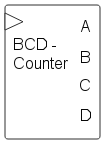
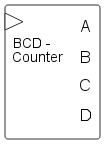
Updates

Changed region(s): [[0.1143, 0.25, 0.6571, 0.5]]

diff --git a/assets/shapes/index.js b/assets/shapes/index.js
@@ -1039,33 +1039,33 @@ var draw2d_circuit_counter_BCDCounter = draw2d.SetFigure.extend({
      this._super( $.extend({stroke:0, bgColor:null, width:95,height:134},attr), setter, getter);
      var port;
      // input_t
-     port = this.addPort(new DecoratedInputPort(), new draw2d.layout.locator.XYRelPortLocator(-1.347368421051406, 12.313432835820896));
+     port = this.addPort(new DecoratedInputPort(), new draw2d.layout.locator.XYRelPortLocator(-2.0701775801808253, 12.313432835820896));
      port.setConnectionDirection(3);
-     port.setBackgroundColor("#37B1DE");
+     port.setBackgroundColor("#1C9BAB");
      port.setName("input_t");
      port.setMaxFanOut(1);
      // out_a
-     port = this.createPort("output", new draw2d.layout.locator.XYRelPortLocator(102.8210526315802, 16.417910447761194));
+     port = this.createPort("output", new draw2d.layout.locator.XYRelPortLocator(99.6631578947381, 16.417910447761194));
      port.setConnectionDirection(1);
-     port.setBackgroundColor("#37B1DE");
+     port.setBackgroundColor("#1C9BAB");
      port.setName("out_a");
      port.setMaxFanOut(20);
      // out_b
-     port = this.createPort("output", new draw2d.layout.locator.XYRelPortLocator(101.76842105263283, 38.507462686567436));
+     port = this.createPort("output", new draw2d.layout.locator.XYRelPortLocator(100.71578947368548, 38.507462686567436));
      port.setConnectionDirection(1);
-     port.setBackgroundColor("#37B1DE");
+     port.setBackgroundColor("#1C9BAB");
      port.setName("out_b");
      port.setMaxFanOut(20);
      // out_c
-     port = this.createPort("output", new draw2d.layout.locator.XYRelPortLocator(101.76842105263283, 61.46268656716462));
+     port = this.createPort("output", new draw2d.layout.locator.XYRelPortLocator(100.71578947368548, 61.46268656716462));
      port.setConnectionDirection(1);
-     port.setBackgroundColor("#37B1DE");
+     port.setBackgroundColor("#1C9BAB");
      port.setName("out_c");
      port.setMaxFanOut(20);
      // out_d
      port = this.createPort("output", new draw2d.layout.locator.XYRelPortLocator(101.76842105263283, 83.0746268656721));
      port.setConnectionDirection(1);
-     port.setBackgroundColor("#37B1DE");
+     port.setBackgroundColor("#1C9BAB");
      port.setName("out_d");
      port.setMaxFanOut(20);
      this.persistPorts=false;
@@ -1095,12 +1095,12 @@ var draw2d_circuit_counter_BCDCounter = draw2d.SetFigure.extend({
         
         // Label
         shape = this.canvas.paper.text(0,0,'BCD -');
-        shape.attr({"x":8.033331298828216,"y":40,"text-anchor":"start","text":"BCD -","font-family":"\"Arial\"","font-size":16,"stroke":"none","fill":"#080808","stroke-scale":true,"font-weight":"normal","stroke-width":0,"opacity":1});
+        shape.attr({"x":8.033331298828216,"y":38,"text-anchor":"start","text":"BCD -","font-family":"\"Arial\"","font-size":14,"stroke":"none","fill":"#080808","stroke-scale":true,"font-weight":"normal","stroke-width":0,"opacity":1});
         shape.data("name","Label");
         
         // Label
         shape = this.canvas.paper.text(0,0,'Counter');
-        shape.attr({"x":8.033331298828216,"y":58.600000000000364,"text-anchor":"start","text":"Counter","font-family":"\"Arial\"","font-size":16,"stroke":"none","fill":"#080808","stroke-scale":true,"font-weight":"normal","stroke-width":0,"opacity":1});
+        shape.attr({"x":7.033331298828216,"y":52.600000000000364,"text-anchor":"start","text":"Counter","font-family":"\"Arial\"","font-size":14,"stroke":"none","fill":"#080808","stroke-scale":true,"font-weight":"normal","stroke-width":0,"opacity":1});
         shape.data("name","Label");
         
         // Rectangle

diff --git a/assets/shapes/draw2d_circuit_counter_BCDCounter.js b/assets/shapes/draw2d_circuit_counter_BCDCounter.js
@@ -14,33 +14,33 @@ var draw2d_circuit_counter_BCDCounter = draw2d.SetFigure.extend({
      this._super( $.extend({stroke:0, bgColor:null, width:95,height:134},attr), setter, getter);
      var port;
      // input_t
-     port = this.addPort(new DecoratedInputPort(), new draw2d.layout.locator.XYRelPortLocator(-1.347368421051406, 12.313432835820896));
+     port = this.addPort(new DecoratedInputPort(), new draw2d.layout.locator.XYRelPortLocator(-2.0701775801808253, 12.313432835820896));
      port.setConnectionDirection(3);
-     port.setBackgroundColor("#37B1DE");
+     port.setBackgroundColor("#1C9BAB");
      port.setName("input_t");
      port.setMaxFanOut(1);
      // out_a
-     port = this.createPort("output", new draw2d.layout.locator.XYRelPortLocator(102.8210526315802, 16.417910447761194));
+     port = this.createPort("output", new draw2d.layout.locator.XYRelPortLocator(99.6631578947381, 16.417910447761194));
      port.setConnectionDirection(1);
-     port.setBackgroundColor("#37B1DE");
+     port.setBackgroundColor("#1C9BAB");
      port.setName("out_a");
      port.setMaxFanOut(20);
      // out_b
-     port = this.createPort("output", new draw2d.layout.locator.XYRelPortLocator(101.76842105263283, 38.507462686567436));
+     port = this.createPort("output", new draw2d.layout.locator.XYRelPortLocator(100.71578947368548, 38.507462686567436));
      port.setConnectionDirection(1);
-     port.setBackgroundColor("#37B1DE");
+     port.setBackgroundColor("#1C9BAB");
      port.setName("out_b");
      port.setMaxFanOut(20);
      // out_c
-     port = this.createPort("output", new draw2d.layout.locator.XYRelPortLocator(101.76842105263283, 61.46268656716462));
+     port = this.createPort("output", new draw2d.layout.locator.XYRelPortLocator(100.71578947368548, 61.46268656716462));
      port.setConnectionDirection(1);
-     port.setBackgroundColor("#37B1DE");
+     port.setBackgroundColor("#1C9BAB");
      port.setName("out_c");
      port.setMaxFanOut(20);
      // out_d
      port = this.createPort("output", new draw2d.layout.locator.XYRelPortLocator(101.76842105263283, 83.0746268656721));
      port.setConnectionDirection(1);
-     port.setBackgroundColor("#37B1DE");
+     port.setBackgroundColor("#1C9BAB");
      port.setName("out_d");
      port.setMaxFanOut(20);
      this.persistPorts=false;
@@ -70,12 +70,12 @@ var draw2d_circuit_counter_BCDCounter = draw2d.SetFigure.extend({
         
         // Label
         shape = this.canvas.paper.text(0,0,'BCD -');
-        shape.attr({"x":8.033331298828216,"y":40,"text-anchor":"start","text":"BCD -","font-family":"\"Arial\"","font-size":16,"stroke":"none","fill":"#080808","stroke-scale":true,"font-weight":"normal","stroke-width":0,"opacity":1});
+        shape.attr({"x":8.033331298828216,"y":38,"text-anchor":"start","text":"BCD -","font-family":"\"Arial\"","font-size":14,"stroke":"none","fill":"#080808","stroke-scale":true,"font-weight":"normal","stroke-width":0,"opacity":1});
         shape.data("name","Label");
         
         // Label
         shape = this.canvas.paper.text(0,0,'Counter');
-        shape.attr({"x":8.033331298828216,"y":58.600000000000364,"text-anchor":"start","text":"Counter","font-family":"\"Arial\"","font-size":16,"stroke":"none","fill":"#080808","stroke-scale":true,"font-weight":"normal","stroke-width":0,"opacity":1});
+        shape.attr({"x":7.033331298828216,"y":52.600000000000364,"text-anchor":"start","text":"Counter","font-family":"\"Arial\"","font-size":14,"stroke":"none","fill":"#080808","stroke-scale":true,"font-weight":"normal","stroke-width":0,"opacity":1});
         shape.data("name","Label");
         
         // Rectangle
